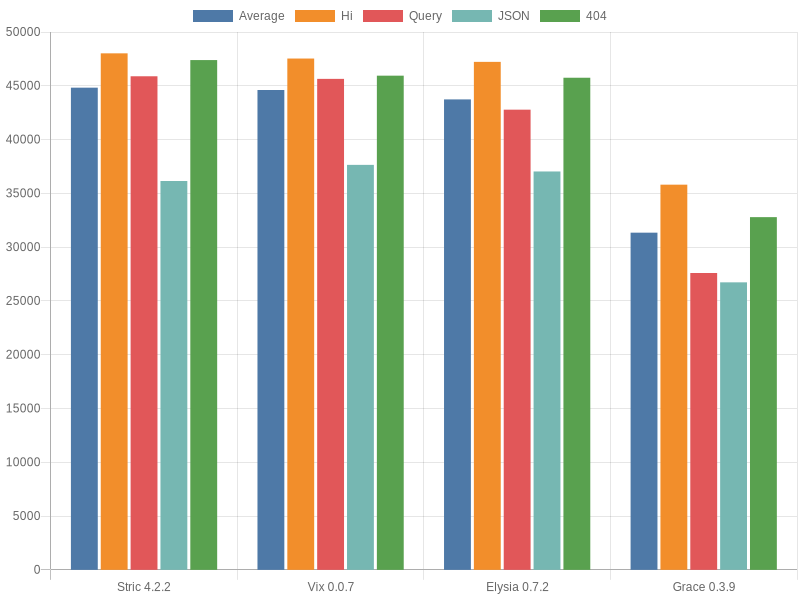
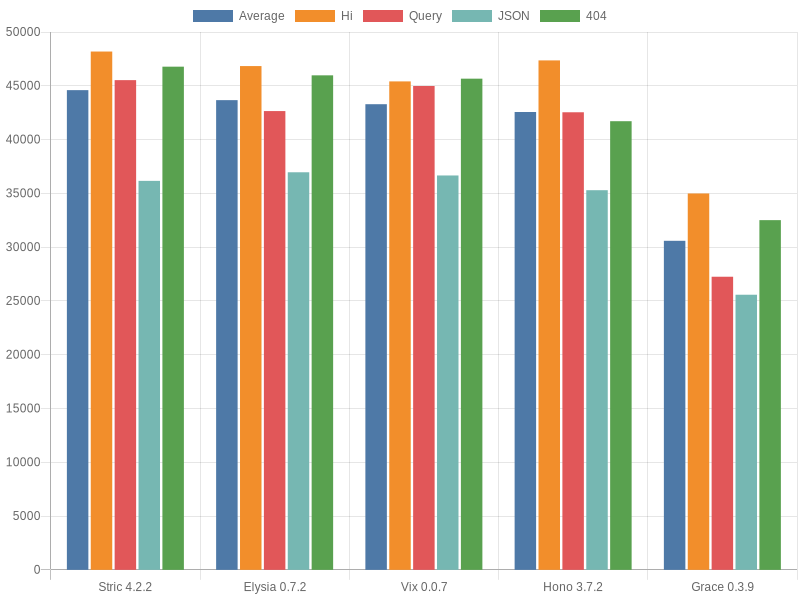
Add Hono

diff --git a/src/Hono/index.ts b/src/Hono/index.ts
@@ -1,0 +1,7 @@
+import { Hono } from 'hono';
+
+export default new Hono()
+    .get('/', c => c.text('Hi'))
+    .get('/api/hi', c => c.text('Welcome'))
+    .get('/id/:id', c => c.text(c.req.param('id') + ' ' + c.req.query('name')))
+    .post('/api/json', c => c.req.json().then(c.json))

diff --git a/results/index.md b/results/index.md
@@ -1,6 +1,6 @@
 Bun: 1.0.3
 
-Tested at: 21:17, September 24th, 2023
+Tested at: 22:13, September 25th, 2023
 
 ## OS Details
 - Cores: 8
@@ -13,7 +13,7 @@ Tested at: 21:17, September 24th, 2023
 Should return `Hi` as a response.
 ### GET `/api/hi`
 Should return `Welcome` as a response.
-### GET `/id/65?name=eUt`
+### GET `/id/53?name=x37`
 Should return the `id` parameter value and the query value, for example `1 a` when the request path is `/id/1?name=a`.
 ### GET `/a/b`
 Should return a response with `404` status code.
@@ -26,9 +26,10 @@ Return the request body with `Content-Type` set to `application/json`.
 - Results are measured in requests per second.
 
 ## Results
-| Name | Average | GET `/` | GET `/api/hi` | GET `/id/29?name=DYq` | GET `/a/b` | POST `/api/json` |
+| Name | Average | GET `/` | GET `/api/hi` | GET `/id/73?name=hN1` | GET `/a/b` | POST `/api/json` |
 |  :---: | :---: | :---: | :---: | :---: | :---: | :---: |
-| [Stric 4.2.2](/results/main/Stric) | 44827.69 | 48017.12 | 46694.40 | 45884.78 | 47391.68 | 36150.48 |
-| [Vix 0.0.7](/results/main/Vix) | 44608.92 | 47530.22 | 46279.28 | 45643.34 | 45941.37 | 37650.39 |
-| [Elysia 0.7.2](/results/main/Elysia) | 43734.72 | 47221.99 | 45889.44 | 42781.14 | 45746.15 | 37034.89 |
-| [Grace 0.3.9](/results/main/Grace) | 31344.80 | 35806.93 | 33806.24 | 27593.63 | 32789.40 | 26727.79 |
+| [Stric 4.2.2](/results/main/Stric) | 44593.92 | 48183.41 | 46318.85 | 45525.19 | 46779.82 | 36162.32 |
+| [Elysia 0.7.2](/results/main/Elysia) | 43667.53 | 46834.67 | 45921.59 | 42651.83 | 45970.95 | 36958.60 |
+| [Vix 0.0.7](/results/main/Vix) | 43286.29 | 45410.19 | 43713.26 | 44982.76 | 45661.48 | 36663.74 |
+| [Hono 3.7.2](/results/main/Hono) | 42562.09 | 47357.55 | 45918.21 | 42539.04 | 41704.77 | 35290.90 |
+| [Grace 0.3.9](/results/main/Grace) | 30589.25 | 34990.88 | 32618.36 | 27249.78 | 32510.84 | 25576.38 |

diff --git a/README.md b/README.md
@@ -47,9 +47,10 @@ See [configuration file](/config.ts) and the [type declarations](/lib/types.ts).
 ### Table 
 
 
-| Name | Average | GET `/` | GET `/api/hi` | GET `/id/29?name=DYq` | GET `/a/b` | POST `/api/json` |
+| Name | Average | GET `/` | GET `/api/hi` | GET `/id/73?name=hN1` | GET `/a/b` | POST `/api/json` |
 |  :---: | :---: | :---: | :---: | :---: | :---: | :---: |
-| [Stric 4.2.2](/results/main/Stric) | 44827.69 | 48017.12 | 46694.40 | 45884.78 | 47391.68 | 36150.48 |
-| [Vix 0.0.7](/results/main/Vix) | 44608.92 | 47530.22 | 46279.28 | 45643.34 | 45941.37 | 37650.39 |
-| [Elysia 0.7.2](/results/main/Elysia) | 43734.72 | 47221.99 | 45889.44 | 42781.14 | 45746.15 | 37034.89 |
-| [Grace 0.3.9](/results/main/Grace) | 31344.80 | 35806.93 | 33806.24 | 27593.63 | 32789.40 | 26727.79 |
+| [Stric 4.2.2](/results/main/Stric) | 44593.92 | 48183.41 | 46318.85 | 45525.19 | 46779.82 | 36162.32 |
+| [Elysia 0.7.2](/results/main/Elysia) | 43667.53 | 46834.67 | 45921.59 | 42651.83 | 45970.95 | 36958.60 |
+| [Vix 0.0.7](/results/main/Vix) | 43286.29 | 45410.19 | 43713.26 | 44982.76 | 45661.48 | 36663.74 |
+| [Hono 3.7.2](/results/main/Hono) | 42562.09 | 47357.55 | 45918.21 | 42539.04 | 41704.77 | 35290.90 |
+| [Grace 0.3.9](/results/main/Grace) | 30589.25 | 34990.88 | 32618.36 | 27249.78 | 32510.84 | 25576.38 |
